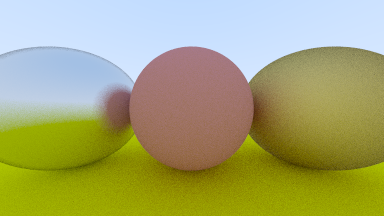
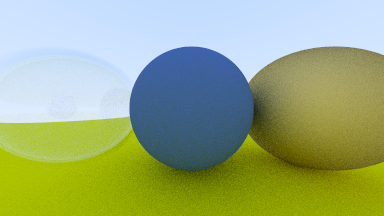
Dielectrics material

diff --git a/code/Material.cs b/code/Material.cs
@@ -1,3 +1,4 @@
+using System;
 using System.Numerics;
 
 namespace RayTracingInOneWeekend {
@@ -44,6 +45,35 @@ public class Metal : Material
 
     private readonly Vector3 albedo;
     private readonly float fuzziness;
+}
+
+public class Dielectric : Material
+{
+    public Dielectric(float reflectionPower)
+    {
+        this.reflectionPower = reflectionPower;
+    }
+    public override bool scatter(in Ray ray, in HitRecord record, ref Vector3 attenuation, ref Ray scattered)
+    {
+        attenuation = Vector3.One;
+        float factor = record.frontFace ? 1.0f / reflectionPower : reflectionPower;
+        Vector3 unitDirection =  Vector3.Normalize(ray.direction);
+
+        scattered.origin = record.point;
+
+        float cosTheta = Math.Min(-Vector3.Dot(unitDirection, record.normal), 1.0f);
+        float sinTheta = (float)Math.Sqrt(1.0f - cosTheta * cosTheta);
+        float reflectionProbability = Utility.Schlick(cosTheta, factor);
+
+        if (factor * sinTheta > 1.0f || Utility.RandomF() < reflectionProbability)
+            scattered.direction = Vector3.Reflect(unitDirection, record.normal);
+        else
+            scattered.direction = Utility.Refract(unitDirection, record.normal, factor);
+
+        return true;
+    }
+
+    readonly float reflectionPower;
 }
 
 }

diff --git a/code/Main.cs b/code/Main.cs
@@ -49,10 +49,11 @@ namespace RayTracingInOneWeekend
             byte[] imageBuffer = new byte[stride * imageHeight];
 
             HittableList world = new HittableList();
-            world.add(new Sphere(new Vector3(0.0f, 0.0f, -1.0f), 0.5f, new Lambertian(new Vector3(0.7f, 0.3f, 0.3f))));
+            world.add(new Sphere(new Vector3(0.0f, 0.0f, -1.0f), 0.5f, new Lambertian(new Vector3(0.1f, 0.2f, 0.5f))));
             world.add(new Sphere(new Vector3(0.0f, -100.5f, -1.0f), 100.0f, new Lambertian(new Vector3(0.8f, 0.8f, 0.0f))));
             world.add(new Sphere(new Vector3(1.0f, 0.0f, -1.0f), 0.5f, new Metal(new Vector3(0.8f, 0.6f, 0.2f), 1.0f)));
-            world.add(new Sphere(new Vector3(-1.0f, 0.0f, -1.0f), 0.5f, new Metal(new Vector3(0.8f, 0.8f, 0.8f), 0.3f)));
+            world.add(new Sphere(new Vector3(-1.0f, 0.0f, -1.0f), 0.5f, new Dielectric(1.5f)));
+            world.add(new Sphere(new Vector3(-1.0f, 0.0f, -1.0f), -0.45f, new Dielectric(1.5f)));
 
             Camera camera = new Camera(aspectRatio);
 

diff --git a/code/Utility.cs b/code/Utility.cs
@@ -36,9 +36,24 @@ namespace RayTracingInOneWeekend {
             return flip * ret;
         }
 
-        public static float clamp(float value, float min, float max)
+        public static float Clamp(float value, float min, float max)
         {
             return Math.Min(Math.Max(min, value), max);
+        }
+
+        public static Vector3 Refract(in Vector3 uv, in Vector3 n, float refractionPower)
+        {
+            float cosTheta = Vector3.Dot(-uv, n);
+            Vector3 outParallel = refractionPower * (uv + cosTheta * n);
+            Vector3 outPerpendicular = -(float)Math.Sqrt(1.0f - Vector3.Dot(outParallel, outParallel)) * n;
+            return outParallel + outPerpendicular;
+        }
+
+        public static float Schlick(float cosine, float reflectionPower)
+        {
+            float r0 = (1.0f - reflectionPower) / (1.0f + reflectionPower);
+            r0 = r0 * r0; 
+            return r0 + (1.0f - r0) * (float)Math.Pow(1 - cosine, 5.0f);
         }
 
         [ThreadStatic]

diff --git a/code/Hittable.cs b/code/Hittable.cs
@@ -9,11 +9,13 @@ namespace RayTracingInOneWeekend {
         public Vector3 normal;
         public Material material;
         public float t;
+        public bool frontFace;
 
         public void setFaceNormal(in Ray ray, in Vector3 outwardNormal)
         {
-            float flipNormal = -Math.Sign(Vector3.Dot(ray.direction, outwardNormal));
-            normal = flipNormal * outwardNormal;
+            int sign = -Math.Sign(Vector3.Dot(ray.direction, outwardNormal));
+            frontFace = sign > 0; 
+            normal = sign * outwardNormal;
         }
     }
 
